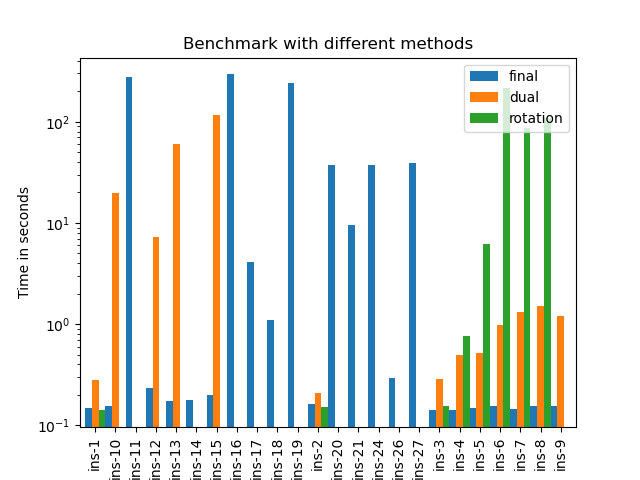
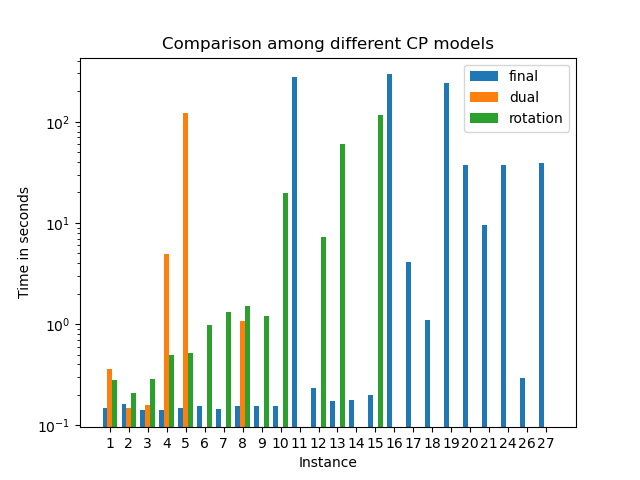
Generation of bar plots

Changed region(s): [[0.125, 0.1562, 0.9062, 1.0], [0.25, 0.0625, 0.7812, 0.125]]

diff --git a/utils/show_results.py b/utils/show_results.py
@@ -105,16 +105,15 @@ def show_bar_chart(results, ins_labels, column_labels, x_label, y_label, title):
 
 def main():
 
-    column_names = ['A', 'B', 'C', 'D']
-    directories = ["../CP/out/final_domWdeg_min_no_restart", "../CP/out/final_domWdeg_random_linear",
-                   "../CP/out/final_domWdeg_random_luby", "../CP/out/final_domWdeg_random_no_restart"]
+    column_names = ['final', 'rotation']
+    directories = ["../SMT/out/final", "../SMT/out/rotation"]
     num = 40
 
     results = get_results(directories, num)
     real_results, instances_names = filter_solved_instances(results)
     x_label = "Instance"
     y_label = "Time in seconds"
-    title = "Benchmark on different search strategies with CP final model"
+    title = "Comparison among different SMT models"
 
     show_bar_chart(real_results, instances_names,column_names, x_label, y_label, title)
 
